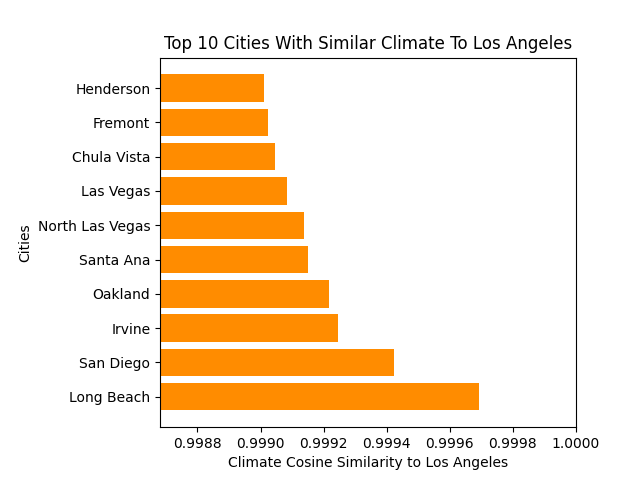
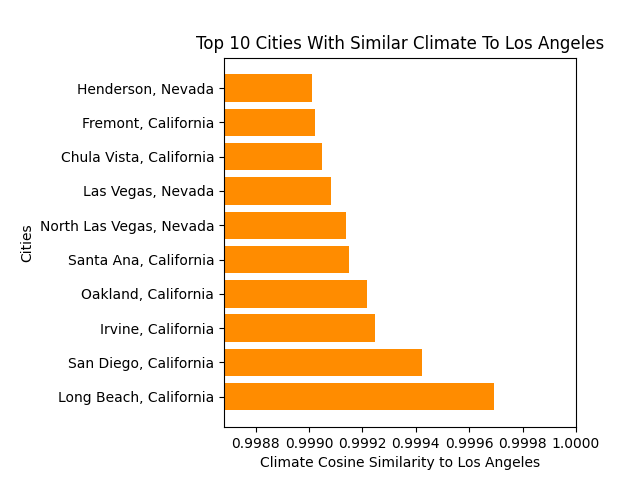
added state to identify cities with the same name

diff --git a/CityClimates.py b/CityClimates.py
@@ -4,18 +4,20 @@ from numpy.linalg import norm
 import matplotlib.pyplot as plt
 from math import sin, cos, sqrt, atan2, radians
 
-def calculateRankings(cur, conn, chosen_city):
+def calculateRankings(cur, chosen_city):
     # 1 cosine similarity represents 1 month. 
     # generate 12 cosine similarities, average and sort. 
     cur.execute("SELECT city_id FROM population WHERE city == ?", (chosen_city, ))
     chosen_city_id = cur.fetchone()[0]
     cur.execute("SELECT * FROM climateData WHERE city_id == ?", (chosen_city_id, ))
     chosen_climate_data = cur.fetchone()
-    cur.execute("SELECT climateData.*, population.city FROM climateData JOIN population ON climateData.city_id = population.city_id WHERE climateData.city_id != ?", (chosen_city_id, ))
+    cur.execute("SELECT climateData.*, population.city, population.state FROM climateData JOIN population ON climateData.city_id = population.city_id WHERE climateData.city_id != ?", (chosen_city_id, ))
     climateData = cur.fetchall()
     cosine_similarities = {} # dictionary holding cosine similarities between other cities and chosen city {city_name: cosine_similarity}
     for city in climateData:
-        city_name = city[-1]
+        city_name = city[-2]
+        state_name = city[-1]
+        # state_name = city[2]
         # getting cosine similarity for each month
         monthly_similarities = []
         for month in range(1, 13):
@@ -24,47 +26,49 @@ def calculateRankings(cur, conn, chosen_city):
             cosine = np.dot(chosen_climate_info,climate_info)/(norm(chosen_climate_info)*norm(climate_info))
             monthly_similarities.append(cosine)
         # getting the average cosine similarity
-        cosine_similarities[city_name] = sum(monthly_similarities) / 12
+        cosine_similarities[(city_name,state_name)] = sum(monthly_similarities) / 12
     # sorting cosine similarities
     sorted_similarities = sorted(cosine_similarities.items(), key=lambda x:x[1], reverse=True)
     f = open("calculated_data.txt", 'w')
     f.write(f"Climate cosine similarities between {chosen_city} and 99 other cities\n")
     for city in sorted_similarities:
-        f.write(f"{city[0]}: {city[1]}\n")
+        f.write(f"{city[0][0]}, {city[0][1]}: {city[1]}\n")
     
-    f.write(f"\nCity with the most similar climate to {chosen_city}: {sorted_similarities[0][0]}\n")
-    f.write(f"City with the least similar climate to {chosen_city}: {sorted_similarities[-1][0]}\n")
+    f.write(f"\nCity with the most similar climate to {chosen_city}: {sorted_similarities[0][0][0]}, {sorted_similarities[0][0][1]}\n")
+    f.write(f"City with the least similar climate to {chosen_city}: {sorted_similarities[-1][0][0]}, {sorted_similarities[-1][0][1]}\n")
     f.close()
 
     # plotting the top 10 cities with the most similar climate
-    city_name = [i[0] for i in sorted_similarities[:10]]
+    city_name = [f"{i[0][0]}, {i[0][1]}" for i in sorted_similarities[:10]]
     city_cosine_similarity = [i[1] for i in sorted_similarities[:10]]
     plt.barh(city_name, city_cosine_similarity, color="darkorange")
     plt.xlabel(f"Climate Cosine Similarity to {chosen_city}")
     plt.ylabel("Cities")
     plt.xlim(sorted_similarities[10][1], 1.0000)
     plt.title(f"Top 10 Cities With Similar Climate To {chosen_city}")
-    plt.gcf().subplots_adjust(left=0.25)
+    plt.gcf().subplots_adjust(left=0.35)
     plt.savefig("topTenSimilarClimates.png")
 
     return cosine_similarities
 
-def calculateSimilaritiesByLatLon(cur, conn, city, cosine_similarities):
-    cur.execute("SELECT city, lat, lon FROM population WHERE city == ?", (city, ))
+def calculateSimilaritiesByLatLon(cur, city, cosine_similarities):
+    cur.execute("SELECT city, lat, lon, state FROM population WHERE city == ?", (city, ))
     chosen_city_lat_lon = cur.fetchone()
-    cur.execute("SELECT city, lat, lon FROM population WHERE city != ?", (city, ))
+    cur.execute("SELECT city, lat, lon, state FROM population WHERE city != ?", (city, ))
     city_lat_lon = cur.fetchall()
     latitude_diff = {}
     longitude_diff = {}
     lat1 = chosen_city_lat_lon[1]
     lon1 = chosen_city_lat_lon[2]
+    state = chosen_city_lat_lon[3]
     for cities in city_lat_lon:
         lat2 = cities[1]
         lon2 = cities[2]
+        state = cities[3]
         lat_diff = abs(lat1 - lat2)
         lon_diff = abs(lon1 - lon2)
-        latitude_diff[cities[0]] = lat_diff
-        longitude_diff[cities[0]] = lon_diff
+        latitude_diff[(cities[0], state)] = lat_diff
+        longitude_diff[(cities[0], state)] = lon_diff
     sorted_lat_diff = sorted(latitude_diff.items(), key=lambda x:x[1])
     sorted_lon_diff = sorted(longitude_diff.items(), key=lambda x:x[1])
 
@@ -103,15 +107,13 @@ def calculateSimilaritiesByLatLon(cur, conn, city, cosine_similarities):
     ax2.grid()
     fig.tight_layout()
     fig.savefig("similarityLatLonPlot.png")
-        
-
 
 def main():
     conn = sqlite3.connect("climateProject.db")
     cur = conn.cursor()
     city = input("Enter a city: ")
-    cosine_similarities = calculateRankings(cur, conn, city)
-    calculateSimilaritiesByLatLon(cur, conn, city, cosine_similarities)
+    cosine_similarities = calculateRankings(cur, city)
+    calculateSimilaritiesByLatLon(cur, city, cosine_similarities)
 
 
 if __name__ == '__main__':
